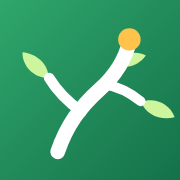
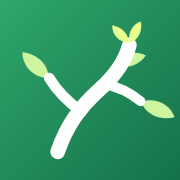
아이콘: 가지 끝 노란 동그라미 대신 새싹(두 잎)
Claude-Session: https://claude.ai/code/session_01NGi6jrhQgywZ8N5k85n5QZ

diff --git a/public/app.js b/public/app.js
@@ -1653,7 +1653,7 @@
 
   /* ---------- 그리기 ---------- */
   const TITLES = { line: '', item: '', board: '보드', map: '전체 지도', settings: '설정', about: '가지 소개', club: '동아리 관리', people: '부원 · 기기', run: '진행 도우미', report: '보고서', trash: '휴지통' };
-  const GAJI_MARK = '<svg viewBox="96 72 340 380" class="gaji-mark"><g fill="#fff" fill-opacity=".72" stroke="none"><path d="M0 0C26-30 74-34 104-6C74 22 28 26 0 0Z" transform="translate(138 222) rotate(-132)"/><path d="M0 0C26-30 74-34 104-6C74 22 28 26 0 0Z" transform="translate(402 290) rotate(28)"/><path d="M0 0C22-26 62-28 88-6C62 18 24 22 0 0Z" transform="translate(330 182) rotate(-12)"/></g><g fill="none" stroke="#fff" stroke-linecap="round" stroke-linejoin="round"><path d="M164 432C190 356 228 304 284 254C326 216 356 172 368 118" stroke-width="42"/><path d="M232 318C196 292 164 262 140 222" stroke-width="30"/><path d="M298 240C334 246 368 262 400 288" stroke-width="28"/></g><circle cx="368" cy="112" r="32" fill="#FFC24B" stroke="none"/></svg>';
+  const GAJI_MARK = '<svg viewBox="96 56 340 396" class="gaji-mark"><g fill="#fff" fill-opacity=".72" stroke="none"><path d="M0 0C26-30 74-34 104-6C74 22 28 26 0 0Z" transform="translate(138 222) rotate(-132)"/><path d="M0 0C26-30 74-34 104-6C74 22 28 26 0 0Z" transform="translate(402 290) rotate(28)"/><path d="M0 0C22-26 62-28 88-6C62 18 24 22 0 0Z" transform="translate(330 182) rotate(-12)"/></g><g fill="none" stroke="#fff" stroke-linecap="round" stroke-linejoin="round"><path d="M164 432C190 356 228 304 284 254C326 216 356 176 368 128" stroke-width="42"/><path d="M232 318C196 292 164 262 140 222" stroke-width="30"/><path d="M298 240C334 246 368 262 400 288" stroke-width="28"/></g><g fill="#E9FF8F" stroke="none"><path d="M0 0C16-20 48-24 68-6C48 12 18 16 0 0Z" transform="translate(366 122) rotate(-128)"/><path d="M0 0C16-20 48-24 68-6C48 12 18 16 0 0Z" transform="translate(370 122) rotate(-58)"/></g></svg>';
   function logoInner() { const st = brand(); return st.logo ? '<img src="' + esc(st.logo) + '" alt="">' : GAJI_MARK; }
   function applyBrand() {
     const st = brand();

diff --git a/public/platform.js b/public/platform.js
@@ -12,7 +12,7 @@ const VERSION = 'v0.3';
 const COLORS = ['#C26A00', '#2F6FDB', '#1F8F5A', '#6E4FE0', '#D2394B', '#475467'];
 const SLUG_RE = /^[a-z0-9][a-z0-9-]{2,29}$/;
 const RESERVED = ['demo', 'system', 'admin', 'api', 'www', 'gaji'];
-const LOGO = '<svg viewBox="96 72 340 380" class="gaji-mark"><g fill="#fff" fill-opacity=".72" stroke="none"><path d="M0 0C26-30 74-34 104-6C74 22 28 26 0 0Z" transform="translate(138 222) rotate(-132)"/><path d="M0 0C26-30 74-34 104-6C74 22 28 26 0 0Z" transform="translate(402 290) rotate(28)"/><path d="M0 0C22-26 62-28 88-6C62 18 24 22 0 0Z" transform="translate(330 182) rotate(-12)"/></g><g fill="none" stroke="#fff" stroke-linecap="round" stroke-linejoin="round"><path d="M164 432C190 356 228 304 284 254C326 216 356 172 368 118" stroke-width="42"/><path d="M232 318C196 292 164 262 140 222" stroke-width="30"/><path d="M298 240C334 246 368 262 400 288" stroke-width="28"/></g><circle cx="368" cy="112" r="32" fill="#FFC24B" stroke="none"/></svg>';
+const LOGO = '<svg viewBox="96 56 340 396" class="gaji-mark"><g fill="#fff" fill-opacity=".72" stroke="none"><path d="M0 0C26-30 74-34 104-6C74 22 28 26 0 0Z" transform="translate(138 222) rotate(-132)"/><path d="M0 0C26-30 74-34 104-6C74 22 28 26 0 0Z" transform="translate(402 290) rotate(28)"/><path d="M0 0C22-26 62-28 88-6C62 18 24 22 0 0Z" transform="translate(330 182) rotate(-12)"/></g><g fill="none" stroke="#fff" stroke-linecap="round" stroke-linejoin="round"><path d="M164 432C190 356 228 304 284 254C326 216 356 176 368 128" stroke-width="42"/><path d="M232 318C196 292 164 262 140 222" stroke-width="30"/><path d="M298 240C334 246 368 262 400 288" stroke-width="28"/></g><g fill="#E9FF8F" stroke="none"><path d="M0 0C16-20 48-24 68-6C48 12 18 16 0 0Z" transform="translate(366 122) rotate(-128)"/><path d="M0 0C16-20 48-24 68-6C48 12 18 16 0 0Z" transform="translate(370 122) rotate(-58)"/></g></svg>';
 
 let user = null;
 const authReady = new Promise((res) => onAuthStateChanged(auth, (u) => { user = u; if (window.GAJI_APP && window.GAJI_APP.dbg) window.GAJI_APP.dbg('로그인변화'); res(); render(); }));
